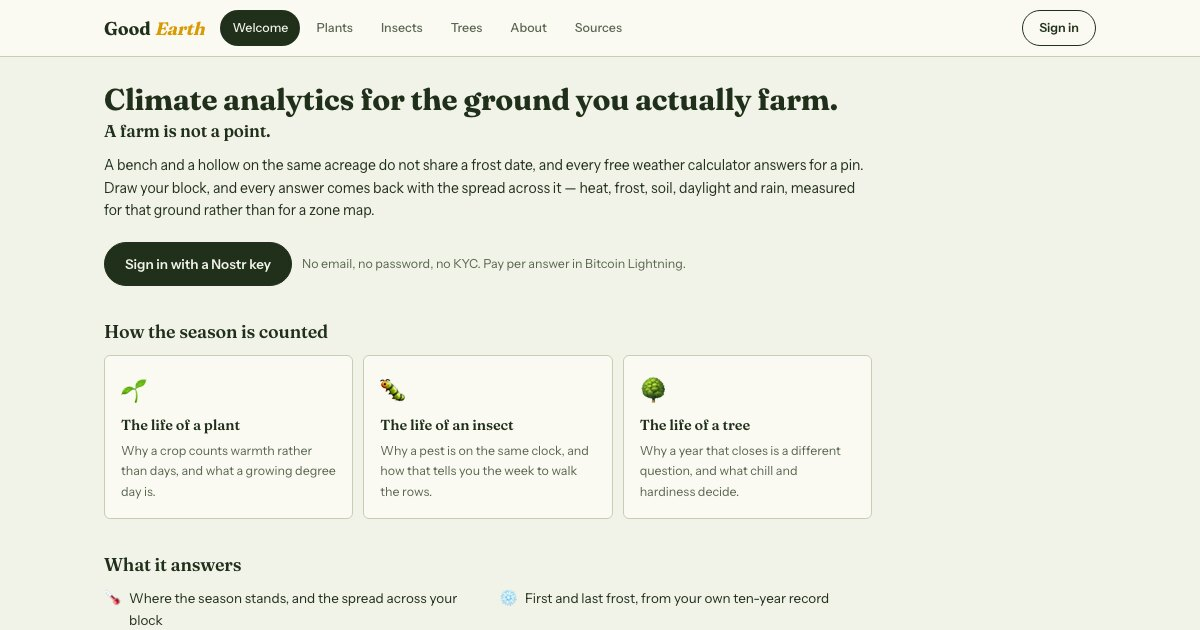
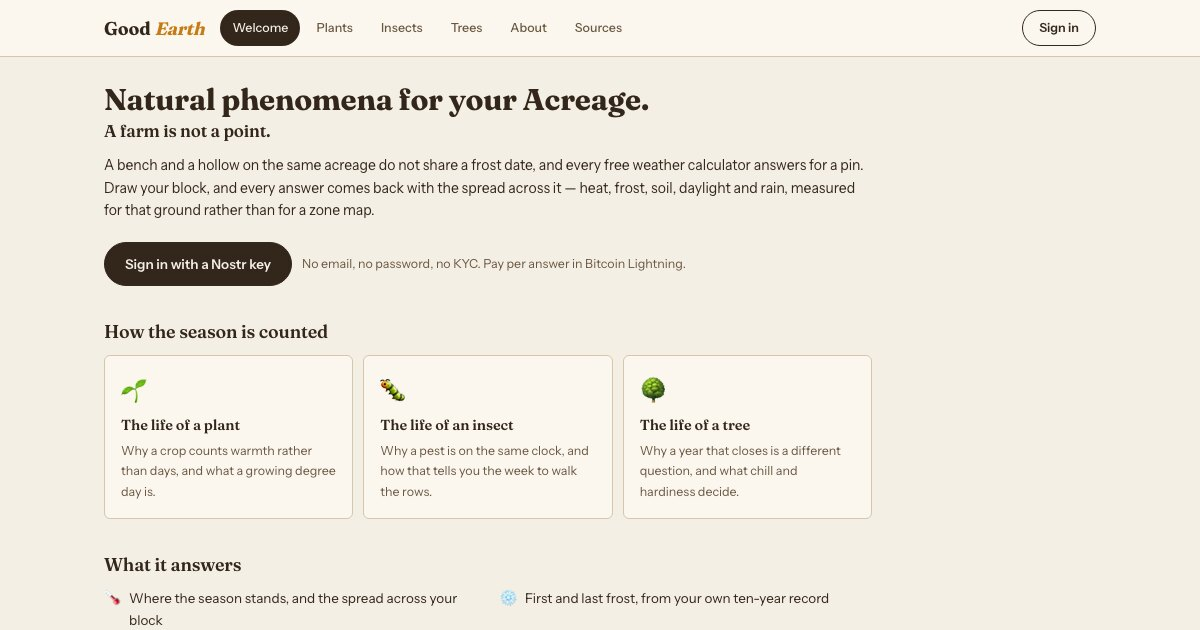
Natural phenomena for your Acreage
The welcome headline, the og and twitter descriptions, and the long meta
description. The owner's wording.

The og-image is a screenshot of that headline, so it is recaptured. It renders
in autumn because that is the season today. The card is a static file and the
site follows the calendar, so the two will differ for most of the year.

The server docstrings still say "region-scoped climate analytics". Those
describe the tool to an agent reading the tool list, which is a different
audience and a separate decision.

Claude-Session: https://claude.ai/code/session_01UpDCNvYpKN53No5YUPRphn

Changed region(s): [[0.0617, 0.1206, 0.7092, 0.181], [0.1233, 0.0302, 0.185, 0.0603]]

diff --git a/frontend/index.html b/frontend/index.html
@@ -8,13 +8,13 @@
     <meta name="theme-color" content="#F1F2E8" />
     <meta
       name="description"
-      content="Good Earth — climate analytics for small farms, answered for the ground you actually farm. Draw your field; get heat, light and water with the spread across it. Sign in with a Nostr key; pay per answer in Bitcoin Lightning."
+      content="Good Earth — natural phenomena for your Acreage. Draw your field; get heat, frost, light and water with the spread across it. Sign in with a Nostr key; pay per answer in Bitcoin Lightning."
     />
     <title>Good Earth</title>
     <meta property="og:type" content="website" />
     <meta property="og:site_name" content="Good Earth" />
     <meta property="og:title" content="Good Earth" />
-    <meta property="og:description" content="Climate analytics for small farms, answered for the ground you actually farm." />
+    <meta property="og:description" content="Natural phenomena for your Acreage." />
     <meta property="og:url" content="https://goodearth.tollbooth-dpyc.com" />
     <!--
       The FRONT DOOR, not a farm.
@@ -33,12 +33,12 @@
     <meta property="og:image:width" content="1200" />
     <meta property="og:image:height" content="630" />
     <meta property="og:image:type" content="image/jpeg" />
-    <meta property="og:image:alt" content="Good Earth's welcome page: climate analytics for the ground you actually farm, with links to short explainers on the life of a plant, an insect and a tree." />
+    <meta property="og:image:alt" content="Good Earth's welcome page: natural phenomena for your acreage, with links to short explainers on the life of a plant, an insect and a tree." />
     <meta name="twitter:card" content="summary_large_image" />
     <meta name="twitter:title" content="Good Earth" />
-    <meta name="twitter:description" content="Climate analytics for small farms, answered for the ground you actually farm." />
+    <meta name="twitter:description" content="Natural phenomena for your Acreage." />
     <meta name="twitter:image" content="https://goodearth.tollbooth-dpyc.com/og-image.jpg" />
-    <meta name="twitter:image:alt" content="Good Earth's welcome page: climate analytics for the ground you actually farm, with links to short explainers on the life of a plant, an insect and a tree." />
+    <meta name="twitter:image:alt" content="Good Earth's welcome page: natural phenomena for your acreage, with links to short explainers on the life of a plant, an insect and a tree." />
   </head>
   <body>
     <div id="root"></div>

diff --git a/frontend/src/views/Welcome.tsx b/frontend/src/views/Welcome.tsx
@@ -27,7 +27,7 @@ export default function Welcome({ onView, onSignIn }: {
   return (
     <div className="max-w-3xl">
       <h1 className="figure text-[30px] leading-tight font-bold">
-        Climate analytics for the ground you actually farm.
+        Natural phenomena for your Acreage.
       </h1>
 
       <Claim>A farm is not a point.</Claim>
